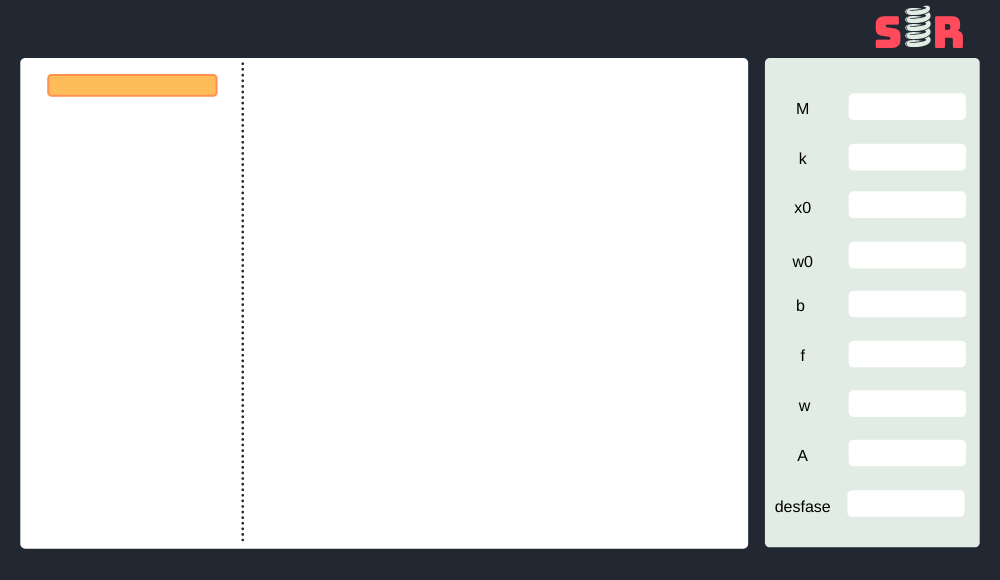
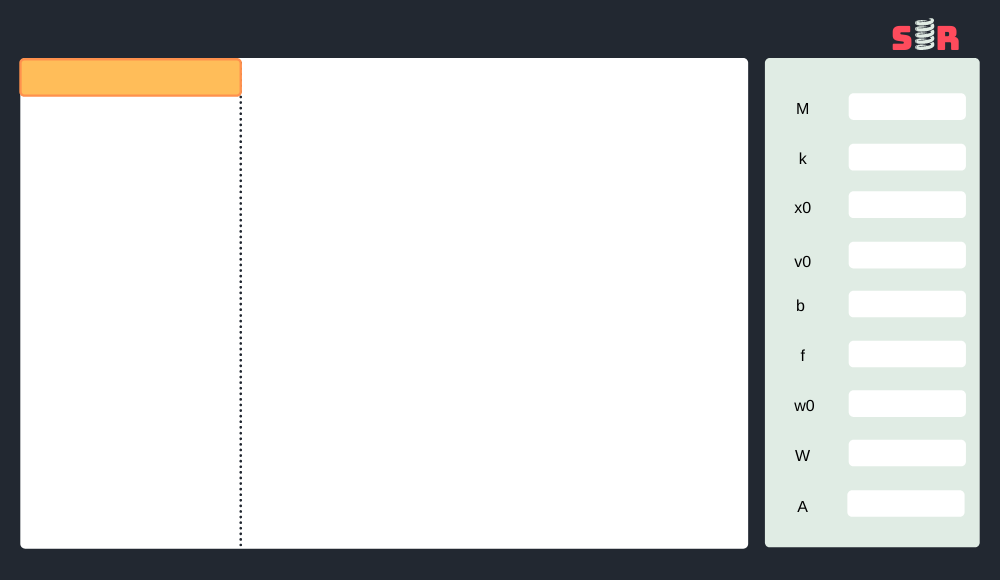
clase solución
* Cambie una de las imágenes de fondo (que tenia un error).
* Añadí 3 imágenes (less, more, pause) que son para controlar el paso del tiempo (dentro del processing).
* También esta la clase solución esta va hallar que tipo de movimiento se trata y luego aplicar métodos privados (no se pueden acceder a ellos fuera de la clase). Hay un método por cada movimiento (para que sea mas fácil modificarlos luego). 
* Además, se crearon dos funciones: animación y grafica (dentro del archivo solución) así podemos trabajar en ellos de forma separada.

diff --git a/README.md b/README.md
@@ -31,7 +31,7 @@ if (mouseX > x && mouseY > y && mouseX < x + w && mouseY < y + h) {
 **_x_** y **_y_** son el punto de partida de la imagen o figura dibujada y **_w_** y **_h_** son el ancho y largo, respectivamente. La estructura de las zonas activas se escribe dentro de una función como una estrutura de condicional multiples. Estos condicionales *no* se pueden escribir por separado, si se escriben separados (es decir, no anidados) el cursos empezara a parpadear. 
 
 ## SOLUCIÓN DEL PROBLEMA
-**no terminado**
+* clase solucion: La clase solución es la que se encarga de verificar el tipo de movimiento y hallar los valores de las incognitas. Para ello, utiliza metodos privados, cada uno resuelve un movimiento diferentes esto es mas por practicidad (hace mas facil depurar y correjir el codigo) que por eficiencia. 
 
 ## Diccionario de variables 
 Variable(s) | Tipo | Definición
